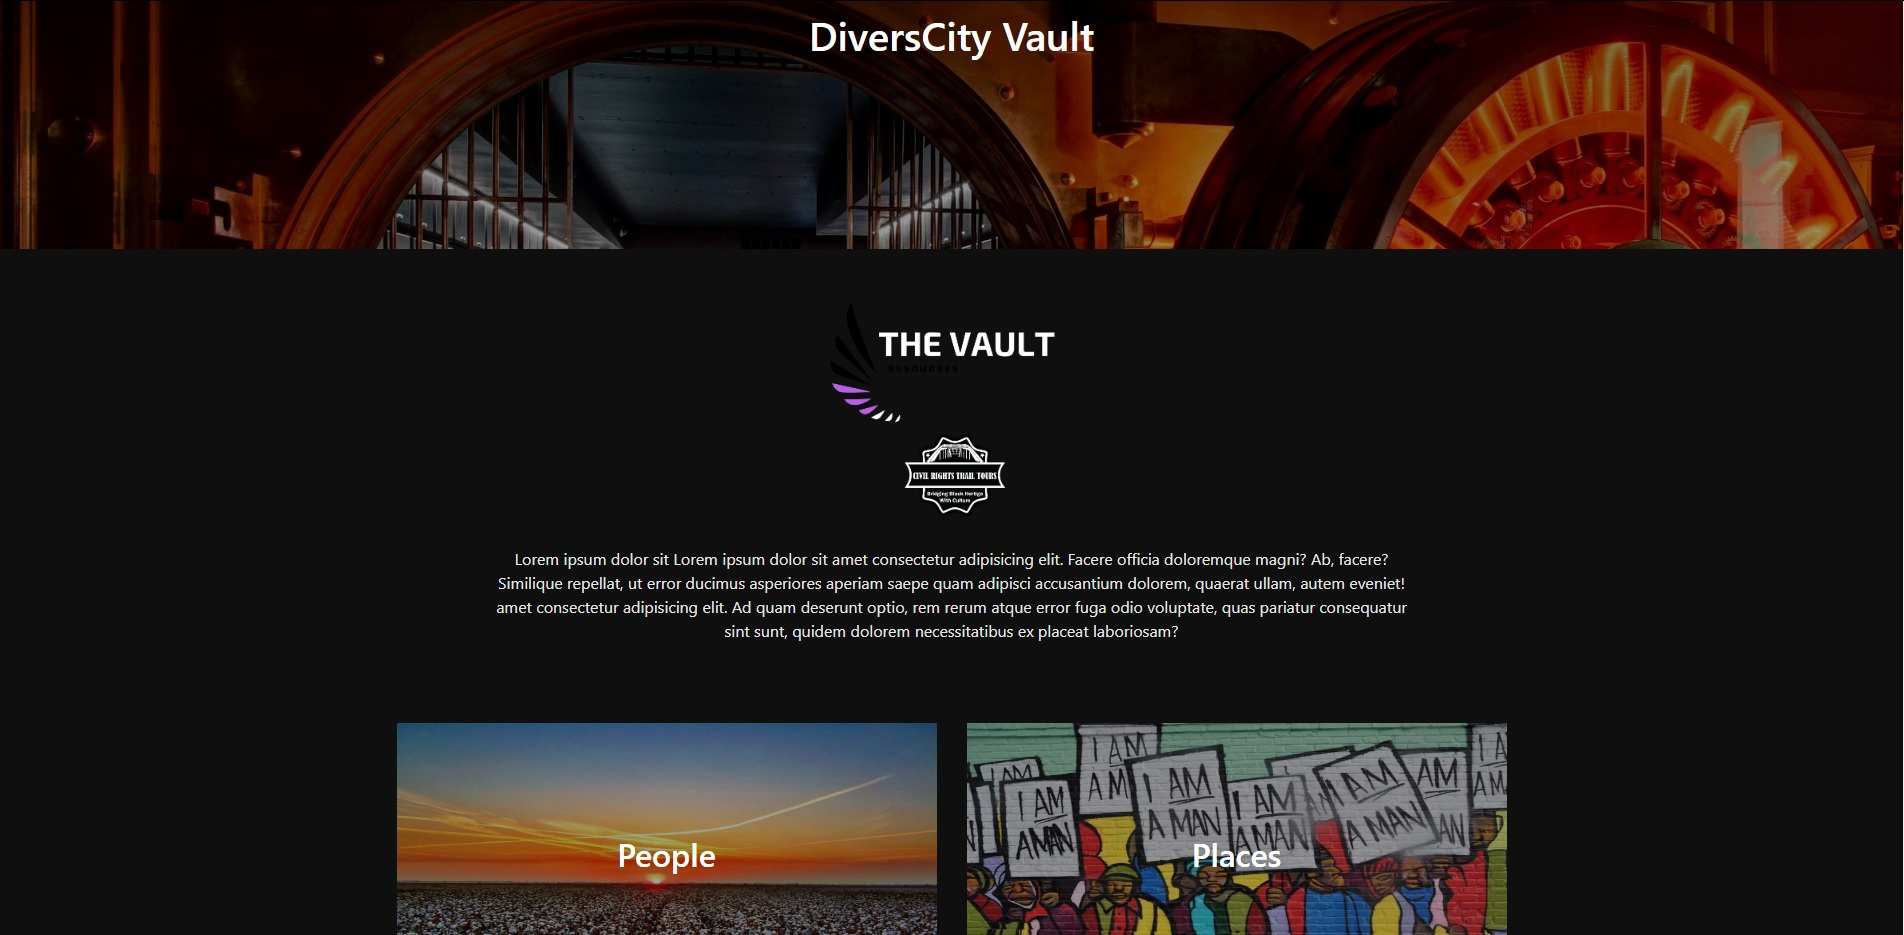
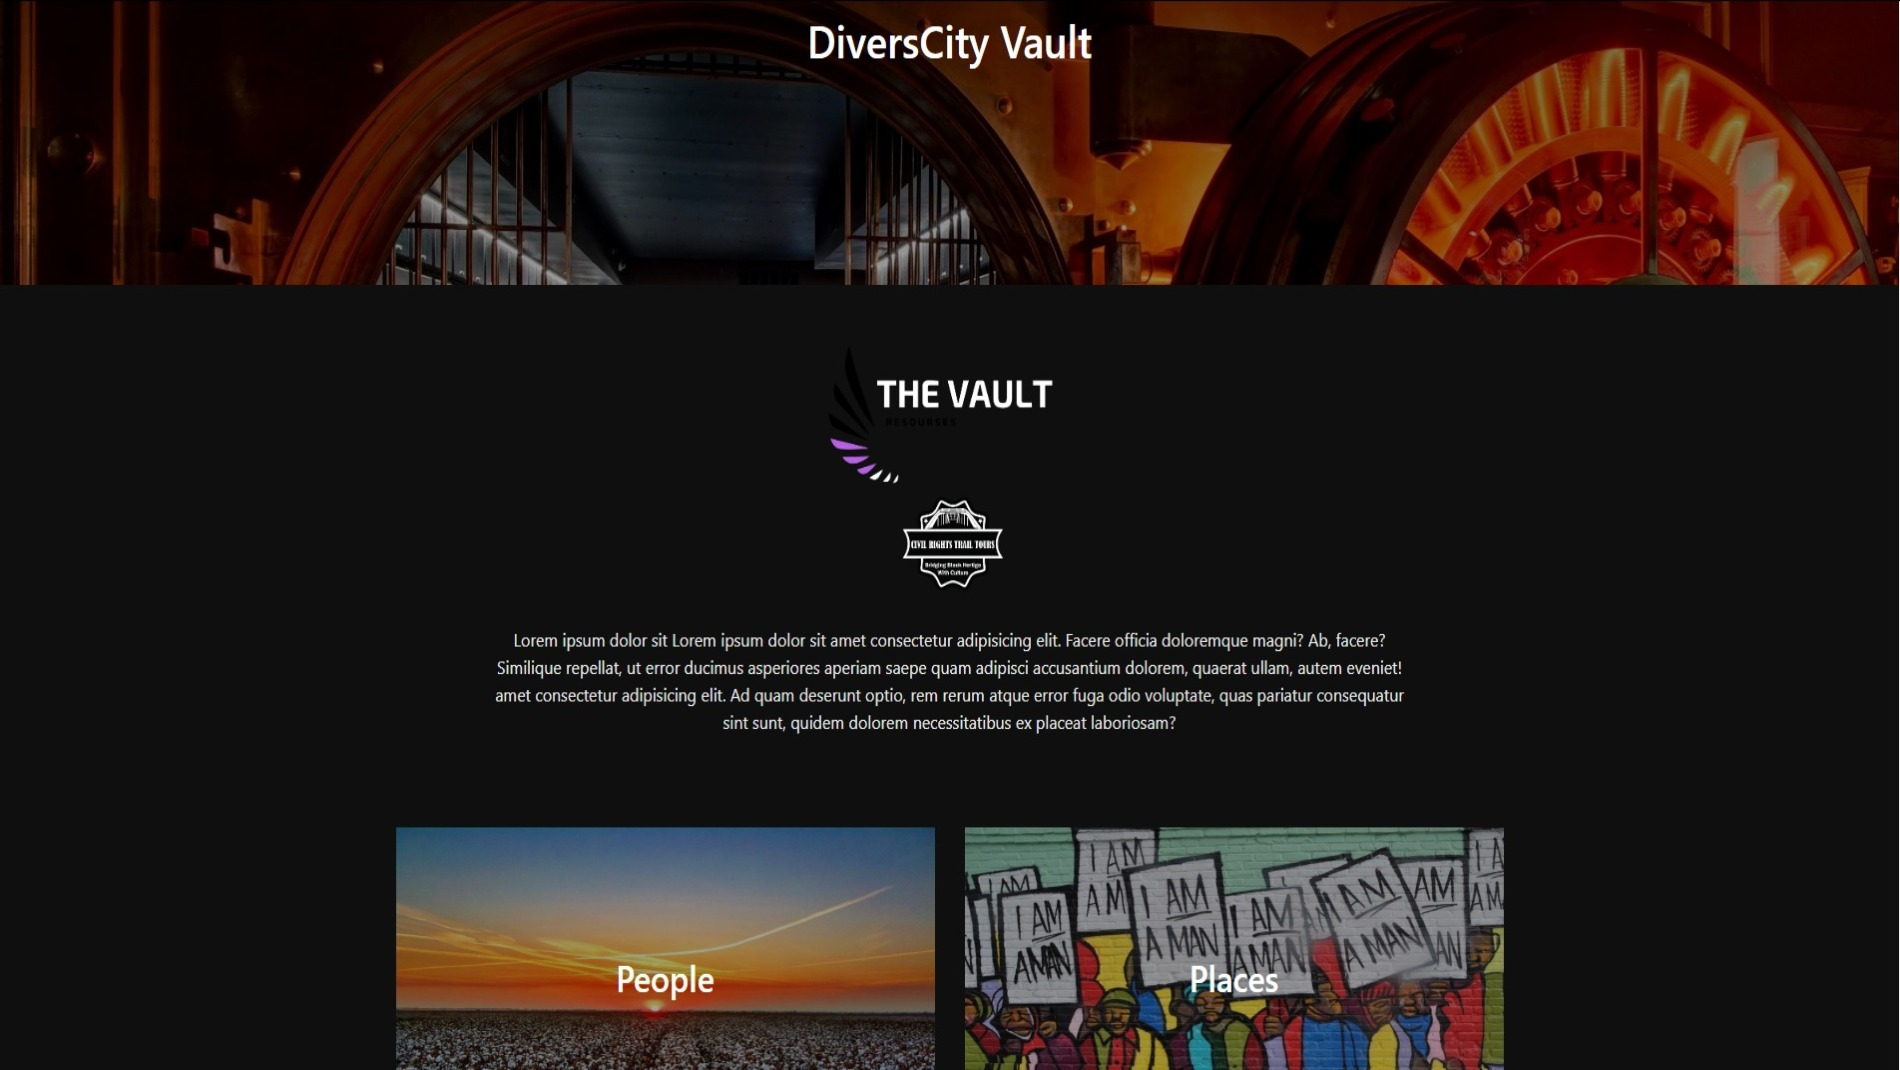
saasasas

Changed region(s): [[0.2484, 0.5893, 0.7453, 0.6824], [0.4968, 0.4652, 0.5279, 0.4963], [0.4658, 0.031, 0.4968, 0.062]]

diff --git a/index.html b/index.html
@@ -219,7 +219,7 @@ License URL: https://creativecommons.org/licenses/by/4.0/
 
 
       </div>
-      <div class="row my-auto">
+      <div class="row my-auto ">
           <div class="col-sm-4 portfolio-item filter finance">
               <a class="portfolio-link" href="#portfolioModal1" data-toggle="modal">
                   <div class="caption-port">
@@ -296,6 +296,17 @@ License URL: https://creativecommons.org/licenses/by/4.0/
           <img class="img-fluid" src="img/portfolio/hebecover.jpg" alt="">
       </a>
   </div>
+  <div class="col-sm-12 portfolio-item filter finance">
+    <a class="portfolio-link" href="#portfolioModa20" data-toggle="modal">
+        <div class="caption-port">
+            
+        </div>
+        <img class="img-fluid" src="img/portfolio/civilcover.jpg" alt="">
+    </a>
+</div>
+
+
+
     
       </div>
   </section>
@@ -812,6 +823,61 @@ License URL: https://creativecommons.org/licenses/by/4.0/
                                   <strong>
                                    <a target="_blank" href="https://hebeaesthetics.ca/">
                                     Hebe Aesthetics 
+                                  </a>
+                                  </strong>
+                              </li>
+                          </ul>
+                        </div>
+                    </div>
+                  </div>
+          </div>
+      </div>
+      </div>
+  </div>
+</div>
+
+<div class="portfolio-modal modal fade" id="portfolioModa20" tabindex="-1" role="dialog" aria-hidden="true">
+  <div class="modal-dialog" role="document">
+      <div class="modal-content">
+          <div class="close-modal" data-dismiss="modal">
+              <div class="lr">
+                  <div class="rl"></div>
+              </div>
+          </div>
+          <div class="container">
+          <div class="row">
+                  <div class="modal-body">
+                      <div class="title-bar">
+                        <div class="col-md-12">
+                          <h2 class="text-center">Civil Rights Trail Tours</h2>
+                          <div class="heading-border"></div>
+                        </div>
+                      </div>
+                      <div class="row">
+                        <div class="col-md-6">
+                          <img class="img-fluid img-centered" src="img/portfolio/civil.jpg" alt="">
+                        </div>
+                        <div class="col-md-6">
+                          <p>Civil Rights Trail Tours was started in 2017 with just one goal- to share with our travelers the genuine and truthful story of the American civil rights movement- the movement that changed the world.
+
+                            In addition, it's our desire to share with our guest how black culture and history has benefited the lives of people all over the world.
+                            
+                            Civil Rights and black cultural historian, storyteller, and tour director Leon Burnette has put together a series of diverse online and live travel experiences designed to educate you, entertain you, and give you a thorough understanding of black history and culture. We're a minority-owned company with a global and inclusive way of looking at the world. Our tour experiences are designed to immerse you and expose you to stories and destinations not offered by other travel operators.</p>
+                          <ul class="list-inline item-details">
+                              <li>Client :
+                                  <strong>
+                                    Leon Burnette
+                                  </strong>
+                              </li>
+                              <li>Date :
+                                  <strong>
+                                   Jan 2021
+                                  </strong>
+                              </li>
+                              <li>Website Link :
+                                  <strong>
+                                   <a target="_blank" href="https://civilrightstrailtours.com/">
+                                    Civil Rights Trail Tours 
                                   </a>
                                   </strong>
                               </li>
